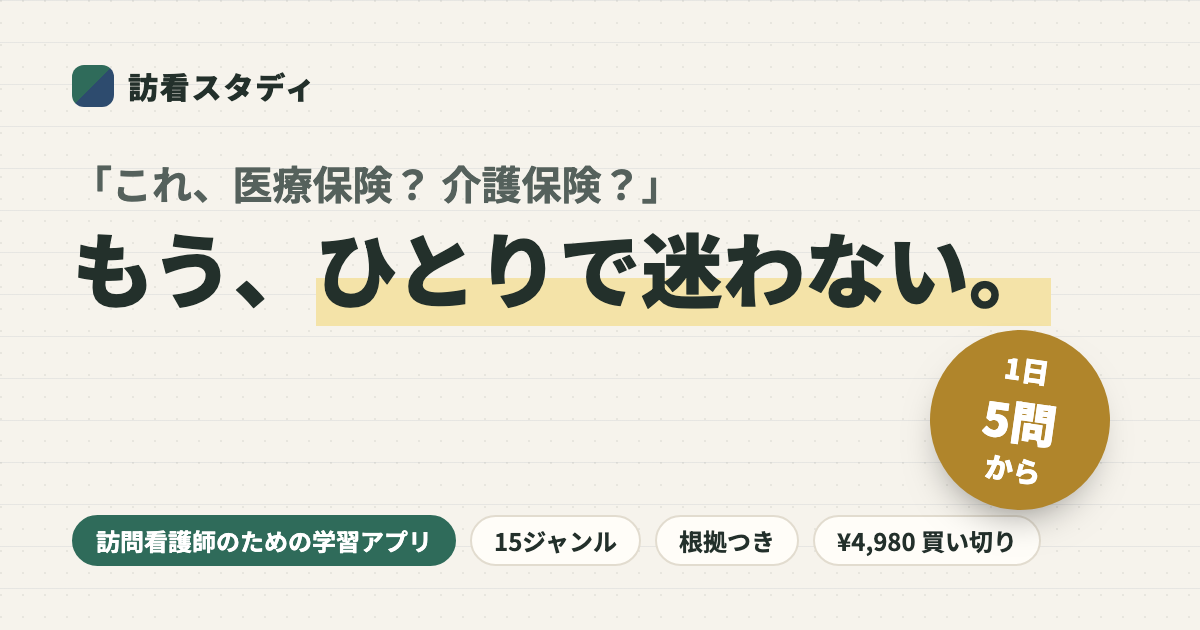
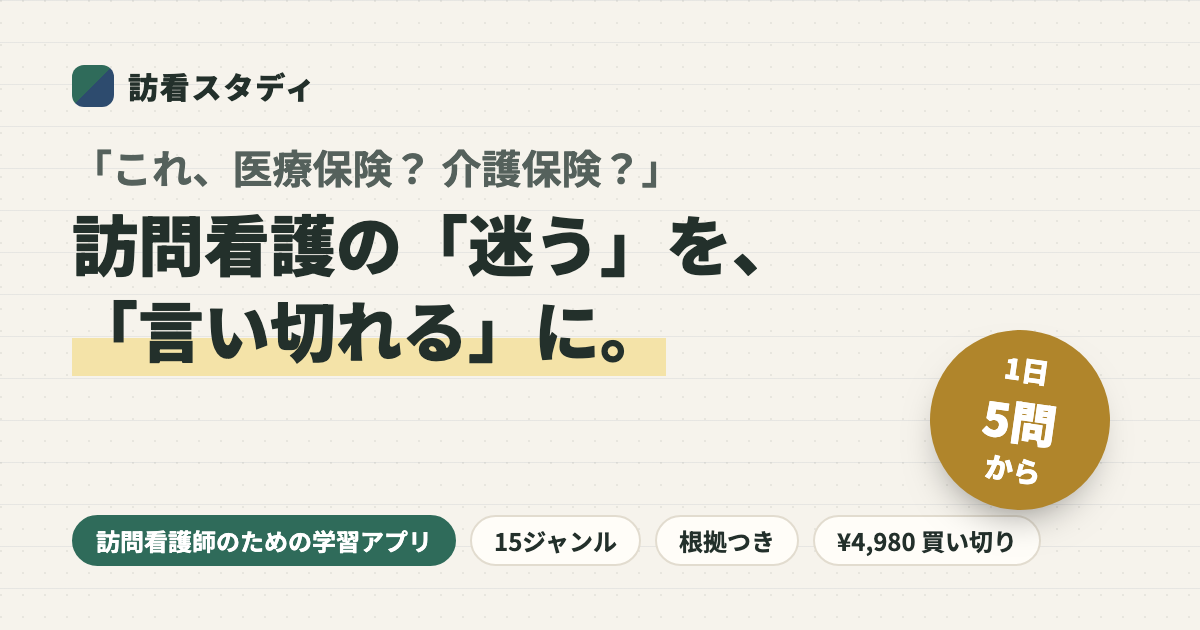
ファーストビューを刷新: 深い緑から藍のパネル、入れ替わる現場の「迷い」、見出し「訪問看護の『迷う』を、『言い切れる』に。」、価格の安心感（買い切り・月額0円）、浮かぶ機能カード、収録予定の数。OGPも新しい見出しに

Changed region(s): [[0.0617, 0.2413, 0.8942, 0.6032]]

diff --git a/index.html b/index.html
@@ -79,27 +79,68 @@ button { font: inherit; color: inherit; }
 .top .btn { margin-left: auto; }
 @media (min-width: 900px) { .top nav { display: flex; } .top .btn { margin-left: 8px; } }
 
-/* ── ファーストビュー ── */
-.hero { position: relative; padding: 40px 0 56px; overflow: hidden; }
-.hero::before { /* 記録用紙の罫線 */
-  content: ''; position: absolute; inset: 0; z-index: -1; pointer-events: none;
-  background: repeating-linear-gradient(0deg, transparent 0 35px, rgba(45,75,110,.07) 35px 36px);
-  mask: linear-gradient(180deg, #000 0 70%, transparent);
+/* ── ファーストビュー（深い緑から藍の大きなパネル） ── */
+.hero { position: relative; margin: 12px; border-radius: 28px; overflow: hidden; color: #fff; padding: 34px 0 30px;
+  background:
+    radial-gradient(60% 70% at 85% 20%, rgba(83,140,190,.35), transparent 70%),
+    radial-gradient(70% 80% at 0% 100%, rgba(58,125,105,.55), transparent 70%),
+    linear-gradient(135deg, #1f4c40 0%, #1d3f4f 55%, #1d3550 100%);
+  box-shadow: 0 30px 60px -40px rgba(29,53,80,.8);
 }
-.hero-grid { display: grid; gap: 36px; align-items: center; }
+.hero::before { /* 記録用紙の罫線（白で薄く） */
+  content: ''; position: absolute; inset: 0; pointer-events: none;
+  background: repeating-linear-gradient(0deg, transparent 0 35px, rgba(255,255,255,.055) 35px 36px);
+  mask: linear-gradient(180deg, #000, rgba(0,0,0,.35));
+}
+.hero::after { /* 右上の大きな円 */
+  content: ''; position: absolute; right: -150px; top: -150px; width: 300px; height: 300px; border-radius: 50%;
+  border: 34px solid rgba(255,255,255,.045); pointer-events: none;
+}
+@media (min-width: 960px) { .hero::after { right: -120px; top: -120px; width: 420px; height: 420px; border-width: 46px; } }
+.hero > .wrap { position: relative; z-index: 1; }
+.hero-grid { display: grid; gap: 34px; align-items: center; }
 .eyebrow { display: inline-flex; align-items: center; gap: 8px; font-size: 13px; font-weight: 700; letter-spacing: .14em; color: var(--pine); margin: 0 0 14px; }
 .eyebrow::before { content: ''; width: 22px; height: 2px; background: currentColor; }
-.hero h1 { margin: 0 0 18px; font-weight: 900; font-size: clamp(30px, 6.4vw, 56px); line-height: 1.32; letter-spacing: .01em; }
-.hero h1 .q { display: block; font-size: .62em; font-weight: 700; color: var(--ink-2); margin-bottom: 6px; letter-spacing: .02em; }
-.hero h1 .draw { display: inline-block; white-space: nowrap; background-image: linear-gradient(var(--marker), var(--marker)); background-repeat: no-repeat; background-position: 0 88%; background-size: 0% 38%; animation: draw .9s .6s cubic-bezier(.6,.1,.2,1) forwards; }
-@keyframes draw { to { background-size: 100% 38%; } }
-.hero .sub { font-size: clamp(15.5px, 1.8vw, 18px); color: var(--ink-2); margin: 0 0 24px; max-width: 34em; }
+.live { display: inline-flex; align-items: center; gap: 8px; margin: 0 0 18px; padding: 5px 14px 5px 10px; border-radius: 999px;
+  background: rgba(255,255,255,.1); border: 1px solid rgba(255,255,255,.22); font-size: 13px; font-weight: 700; letter-spacing: .06em; }
+.live i { width: 9px; height: 9px; border-radius: 50%; background: #7fe0b5; box-shadow: 0 0 0 0 rgba(127,224,181,.7); animation: pulse 1.8s infinite; }
+@keyframes pulse { 70% { box-shadow: 0 0 0 9px rgba(127,224,181,0); } 100% { box-shadow: 0 0 0 0 rgba(127,224,181,0); } }
+.live span { opacity: .75; font-weight: 500; }
+@media (max-width: 600px) { .live span { display: none; } }
+/* 入れ替わる「迷い」 */
+.ask { position: relative; margin: 0 0 8px; min-height: 1.5em; white-space: nowrap; font-size: clamp(14px, 4.3vw, 23px); font-weight: 700; line-height: 1.45; color: #cfe6dc; }
+.ask-q { display: inline-block; }
+.ask-q.out { animation: askOut .35s ease forwards; }
+.ask-q.in { animation: askIn .45s cubic-bezier(.2,.7,.2,1) forwards; }
+@keyframes askOut { to { opacity: 0; transform: translateY(-10px); filter: blur(2px); } }
+@keyframes askIn { from { opacity: 0; transform: translateY(12px); filter: blur(2px); } to { opacity: 1; transform: none; filter: none; } }
+.ask .caret { display: inline-block; width: 2px; height: 1em; background: #cfe6dc; margin-left: 4px; vertical-align: -.12em; animation: blink 1s steps(1) infinite; }
+@keyframes blink { 50% { opacity: 0; } }
+.hero h1 { margin: 0 0 18px; font-weight: 900; font-size: clamp(32px, 6.6vw, 60px); line-height: 1.28; letter-spacing: .01em; text-wrap: balance; }
+.hero h1 .em { color: #f3d98b; }
+.hero h1 .draw { display: inline-block; white-space: nowrap; background-image: linear-gradient(90deg, rgba(243,217,139,.55), rgba(243,217,139,.25)); background-repeat: no-repeat; background-position: 0 94%; background-size: 0% 14%; animation: draw .9s .7s cubic-bezier(.6,.1,.2,1) forwards; }
+@keyframes draw { to { background-size: 100% 14%; } }
+.hero .sub { font-size: clamp(15.5px, 1.7vw, 17.5px); color: rgba(255,255,255,.86); margin: 0 0 26px; max-width: 33em; }
+.hero .sub b { color: #fff; }
 .hero .cta { display: flex; flex-wrap: wrap; gap: 12px; align-items: center; }
-.points { display: flex; flex-wrap: wrap; gap: 8px 10px; margin: 22px 0 0; padding: 0; list-style: none; }
-.points li { display: inline-flex; align-items: center; gap: 6px; font-size: 13.5px; font-weight: 700; color: var(--ink-2); background: var(--card); border: 1px solid var(--line); border-radius: 999px; padding: 4px 12px; }
-.points li::before { content: ''; width: 7px; height: 7px; border-radius: 50%; background: var(--pine); }
-.points li:nth-child(2)::before { background: var(--indigo); }
-.points li:nth-child(3)::before { background: var(--gold); }
+.hero .btn.primary { background: #fff; color: var(--pine-deep); border-color: #fff; min-height: 56px; padding: 0 30px; font-size: 16.5px; box-shadow: 0 16px 30px -14px rgba(0,0,0,.6); }
+.hero .btn.primary:hover { background: #f3f8f5; }
+.hero .btn.primary small { font-weight: 700; font-size: 12.5px; opacity: .7; }
+.hero .btn.ghost-w { background: transparent; color: #fff; border-color: rgba(255,255,255,.45); min-height: 56px; }
+.hero .btn.ghost-w:hover { background: rgba(255,255,255,.08); }
+.price-line { display: flex; flex-wrap: wrap; align-items: baseline; gap: 6px 14px; margin: 22px 0 0; font-size: 14px; color: rgba(255,255,255,.82); }
+.price-line strong { font-size: 26px; font-weight: 900; color: #fff; letter-spacing: -.01em; }
+.price-line strong small { font-size: 13px; font-weight: 700; margin-left: 4px; opacity: .85; }
+.price-line span { display: inline-flex; align-items: center; gap: 6px; }
+.price-line span::before { content: '✓'; display: grid; place-items: center; width: 18px; height: 18px; border-radius: 50%; background: rgba(127,224,181,.22); color: #9fe9c8; font-size: 11px; }
+/* 収録の数 */
+.counts { position: relative; z-index: 1; display: grid; grid-template-columns: repeat(2, 1fr); gap: 1px; margin-top: 34px; border-radius: 18px; overflow: hidden; background: rgba(255,255,255,.14); }
+.counts div { background: rgba(16,36,40,.45); padding: 14px 16px; }
+.counts b { display: block; font-size: clamp(26px, 3.6vw, 36px); font-weight: 900; line-height: 1.15; font-variant-numeric: tabular-nums; }
+.counts b small { font-size: .45em; margin-left: 3px; font-weight: 700; opacity: .8; }
+.counts span { font-size: 13px; color: rgba(255,255,255,.75); font-weight: 500; }
+.counts-note { margin: 8px 2px 0; font-size: 12px; color: rgba(255,255,255,.55); position: relative; z-index: 1; }
+@media (min-width: 720px) { .counts { grid-template-columns: repeat(4, 1fr); } }
 .rise { opacity: 0; transform: translateY(14px); animation: rise .7s cubic-bezier(.2,.7,.2,1) forwards; }
 .d1 { animation-delay: .05s } .d2 { animation-delay: .15s } .d3 { animation-delay: .25s } .d4 { animation-delay: .35s } .d5 { animation-delay: .5s }
 @keyframes rise { to { opacity: 1; transform: none; } }
@@ -112,7 +153,7 @@ button { font: inherit; color: inherit; }
   box-shadow: 0 40px 70px -30px rgba(29,39,35,.65), inset 0 0 0 2px #39463f;
   transform: rotate(-2.5deg);
 }
-.screen { border-radius: 30px; overflow: hidden; background: var(--paper); min-height: 500px; display: flex; flex-direction: column; }
+.screen { color: var(--ink); border-radius: 30px; overflow: hidden; background: var(--paper); min-height: 500px; display: flex; flex-direction: column; }
 .screen-bar { display: flex; align-items: center; gap: 8px; padding: 14px 16px 10px; border-bottom: 1px solid var(--line); font-weight: 700; font-size: 13px; }
 .screen-bar .brand-mark { width: 20px; height: 20px; border-radius: 6px; }
 .screen-body { padding: 14px 14px 18px; flex: 1; }
@@ -141,12 +182,28 @@ button { font: inherit; color: inherit; }
 .verdict.ng { background: var(--vermilion); }
 .explain { font-size: 13.5px; line-height: 1.8; margin: 0; }
 .basis-line { font-size: 11.5px; color: var(--indigo); margin: 8px 0 0; line-height: 1.6; }
-.sticker {
-  position: absolute; right: max(0px, calc(50% - 215px)); top: -6px; transform: rotate(6deg);
-  background: var(--gold); color: #fff; font-weight: 900; font-size: 13px; line-height: 1.35; text-align: center;
-  width: 92px; height: 92px; border-radius: 50%; display: grid; place-items: center; box-shadow: var(--shadow);
+.stamp {
+  position: absolute; right: max(0px, calc(50% - 200px)); top: -8px; transform: rotate(8deg); z-index: 3;
+  width: 96px; height: 96px; border-radius: 50%; display: grid; place-items: center; text-align: center;
+  background: #e2b54f; color: #2a2208; font-weight: 900; font-size: 12px; line-height: 1.3; box-shadow: 0 14px 26px -12px rgba(0,0,0,.6);
+  outline: 2px dashed rgba(42,34,8,.35); outline-offset: -8px;
 }
-.sticker b { display: block; font-size: 24px; }
+.stamp b { display: block; font-size: 17px; }
+.floats { display: grid; grid-template-columns: 1fr 1fr; gap: 10px; margin-top: 18px; position: relative; z-index: 2; }
+.floats .f3 { grid-column: 1 / -1; justify-self: center; }
+.float { background: #fffdf8; color: var(--ink); border-radius: 14px; padding: 10px 12px; box-shadow: 0 18px 34px -16px rgba(0,0,0,.55); font-size: 12px; line-height: 1.5; }
+.float p { margin: 0; }
+.float .ft { display: flex; align-items: center; gap: 6px; font-weight: 900; font-size: 13px; margin-bottom: 2px; }
+.float .ft i { display: grid; place-items: center; width: 20px; height: 20px; border-radius: 6px; font-style: normal; font-size: 11px; color: #fff; background: var(--indigo); }
+.float.f2 .ft i { background: var(--vermilion); }
+.float.f3 .ft i { background: var(--pine); }
+.float .src { color: var(--indigo); }
+.float .big { font-size: 24px; font-weight: 900; color: var(--vermilion); line-height: 1.1; }
+.float .mini-dots { display: flex; gap: 4px; margin-top: 4px; }
+.float .mini-dots span { padding: 1px 8px; border-radius: 999px; background: var(--paper-2); color: var(--ink-3); font-weight: 700; font-size: 11px; }
+.float .mini-dots .done { background: var(--pine-soft); color: var(--pine); }
+.float .mini-dots .now { background: var(--ink); color: #fff; }
+@keyframes bob { 50% { transform: translateY(-8px); } }
 
 /* ── セクション共通 ── */
 section.block { padding: 72px 0; position: relative; }
@@ -332,16 +389,21 @@ footer .disc { max-width: 46em; }
 
 /* PCのファーストビュー */
 @media (min-width: 960px) {
-  .hero { padding: 64px 0 84px; }
-  .hero-grid { grid-template-columns: 1.15fr .85fr; gap: 56px; }
-  .sticker { top: auto; bottom: 6px; right: max(0px, calc(50% - 230px)); }
+  .hero { margin: 16px 20px; border-radius: 36px; padding: 70px 0 44px; }
+  .hero-grid { grid-template-columns: 1.1fr .9fr; gap: 40px; }
+  .floats { display: block; margin: 0; position: absolute; inset: 0; pointer-events: none; }
+  .float { position: absolute; animation: bob 5s ease-in-out infinite; }
+  .float.f1 { left: -8%; top: 2%; animation-delay: -1s; }
+  .float.f2 { right: -4%; top: 44%; animation-delay: -2.5s; }
+  .float.f3 { left: -2%; bottom: 8%; animation-delay: -4s; }
+  .stamp { right: 2%; top: -4px; }
   section.block { padding: 96px 0; }
   .final { padding: 70px 40px; }
 }
 @media (prefers-reduced-motion: reduce) {
   *, *::before, *::after { animation: none !important; transition: none !important; }
   .rise, .reveal { opacity: 1; transform: none; }
-  .hero h1 .draw { background-size: 100% 38%; }
+  .hero h1 .draw { background-size: 100% 14%; }
 }
 </style>
 </head>
@@ -361,16 +423,15 @@ footer .disc { max-width: 46em; }
 <section class="hero">
   <div class="wrap hero-grid">
     <div>
-      <p class="eyebrow rise d1">訪問看護師のための学習アプリ</p>
-      <h1 class="rise d2"><span class="q">「これ、医療保険？ 介護保険？」</span>もう、<span class="draw">ひとりで迷わない。</span></h1>
-      <p class="sub rise d3">保険の振り分けや加算から、初回訪問、急変時の報告まで。訪問看護で迷いやすいところを、<b>根拠つきの解説・クイズ・現場のケース</b>で、スマホで1日5問から身につけます。</p>
+      <p class="live rise d1"><i aria-hidden="true"></i>先行案内 受付中<span>｜訪問看護師のための学習アプリ</span></p>
+      <p class="ask rise d2" aria-hidden="true"><span class="ask-q" data-ask>「これ、医療保険？ 介護保険？」</span><span class="caret"></span></p>
+      <h1 class="rise d2"><span class="sr">「これ、医療保険？ 介護保険？」</span>訪問看護の<span class="em">「迷う」</span>を、<br><span class="draw">「言い切れる」に。</span></h1>
+      <p class="sub rise d3">保険の振り分けや加算から、急変時の報告まで15ジャンル。<b>根拠つきの解説</b>と<b>1日5問のクイズ</b>、<b>現場のケース</b>で、移動の合間に身につけます。</p>
       <div class="cta rise d4">
-        <a class="btn primary" href="#waitlist" data-waitlist>先行案内を受け取る <span class="arrow">→</span></a>
-        <a class="btn" href="#try">1問ためしに解く</a>
+        <a class="btn primary" href="#waitlist" data-waitlist>先行案内を受け取る<small>無料</small> <span class="arrow">→</span></a>
+        <a class="btn ghost-w" href="#try">まず1問、解いてみる</a>
       </div>
-      <ul class="points rise d5" aria-label="特長">
-        <li>15ジャンル</li><li>根拠は告示・通知まで</li><li>¥4,980 買い切り</li>
-      </ul>
+      <p class="price-line rise d5"><strong>¥4,980<small>買い切り</small></strong><span>月額0円</span><span>改定の更新もずっと無料</span></p>
     </div>
 
     <div class="phone-stage rise d4" id="try">
@@ -387,8 +448,22 @@ footer .disc { max-width: 46em; }
           </div>
         </div>
       </div>
-      <div class="sticker" aria-hidden="true"><span>1日<b>5問</b>から</span></div>
+      <div class="stamp" aria-hidden="true"><span>令和8年度<b>改定対応</b></span></div>
+      <div class="floats" aria-hidden="true">
+        <div class="float f1"><p class="ft"><i>根</i>根拠つき</p><span class="src">留意事項通知 第2の1(1)</span></div>
+        <div class="float f2"><p class="ft"><i>✕</i>間違えた問題</p><span class="big">3</span> 問を正解まで解き直し</div>
+        <div class="float f3"><p class="ft"><i>例</i>現場のケース</p><div class="mini-dots"><span class="done">確認</span><span class="now">報告</span><span>保険</span></div></div>
+      </div>
     </div>
+  </div>
+  <div class="wrap">
+    <div class="counts rise d5">
+      <div><b>15<small>ジャンル</small></b><span>保険から小児・精神まで</span></div>
+      <div><b>100<small>節以上</small></b><span>根拠つきの解説</span></div>
+      <div><b>200<small>問以上</small></b><span>クイズ</span></div>
+      <div><b>20<small>本以上</small></b><span>現場のケース</span></div>
+    </div>
+    <p class="counts-note">数は公開に向けて収録している予定の数です。現役の訪問看護師さんの確認が済んだものから順に公開します。</p>
   </div>
 </section>
 
@@ -686,6 +761,17 @@ function mountQuestion(el, { tag, q, choices, answer, explain, basis }, after) {
     result.querySelector('[data-next]')?.addEventListener('click', (ev) => ev.currentTarget._go?.());
     el.dispatchEvent(new CustomEvent('answered', { detail: { ok } }));
   }));
+}
+
+// ファーストビュー: 現場の「迷い」を数秒ごとに入れ替える
+const ASKS = ['「これ、医療保険？ 介護保険？」', '「この加算、算定できる？」', '「夜の電話。行く？ 救急車？」', '「ケアマネさんに、どこまで伝える？」', '「特別指示書、何日まで？」'];
+const askEl = document.querySelector('[data-ask]');
+if (!matchMedia('(prefers-reduced-motion: reduce)').matches) {
+  let ai = 0;
+  setInterval(() => {
+    askEl.classList.remove('in'); askEl.classList.add('out');
+    setTimeout(() => { ai = (ai + 1) % ASKS.length; askEl.textContent = ASKS[ai]; askEl.classList.remove('out'); askEl.classList.add('in'); }, 340);
+  }, 2800);
 }
 
 // ファーストビューの1問
